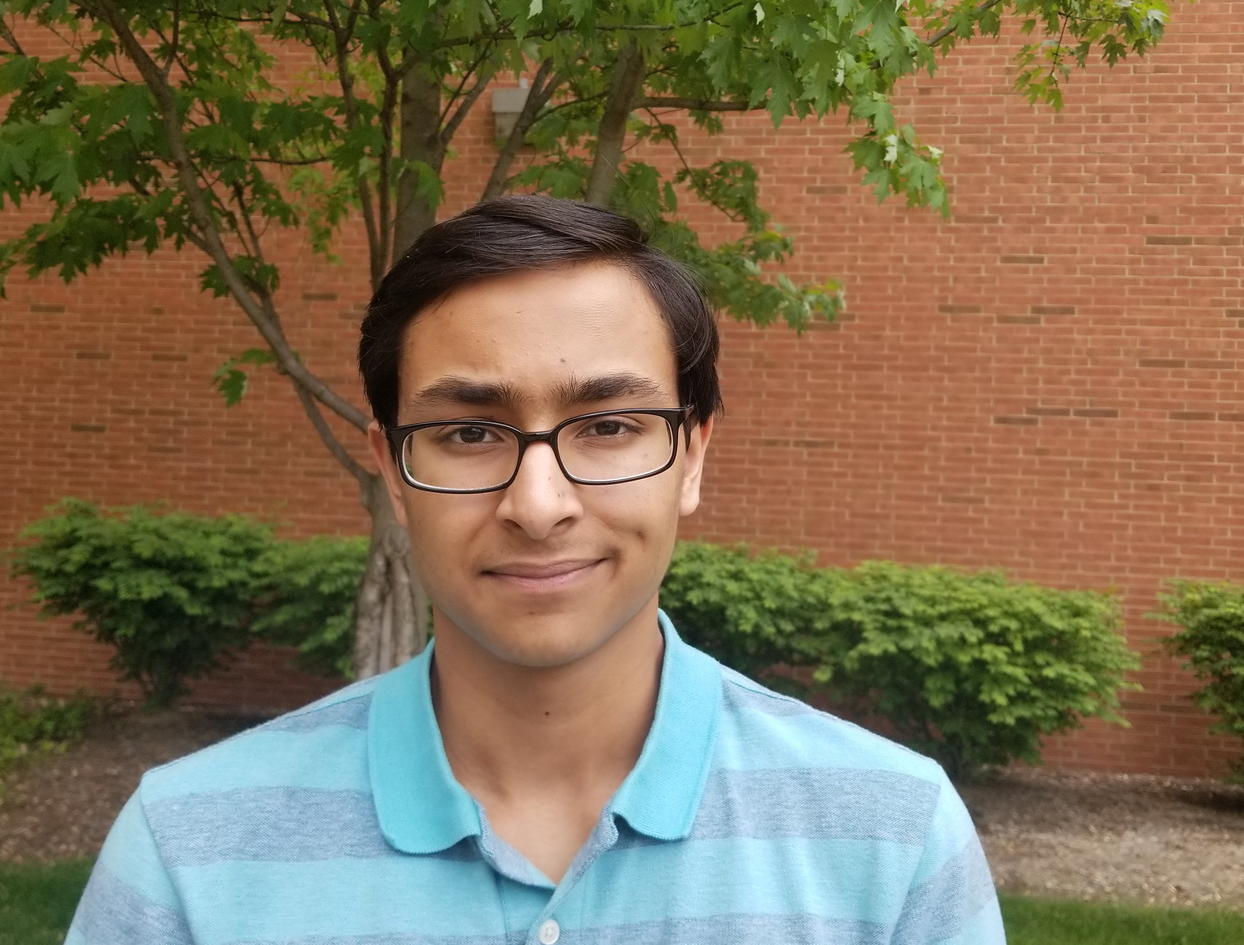
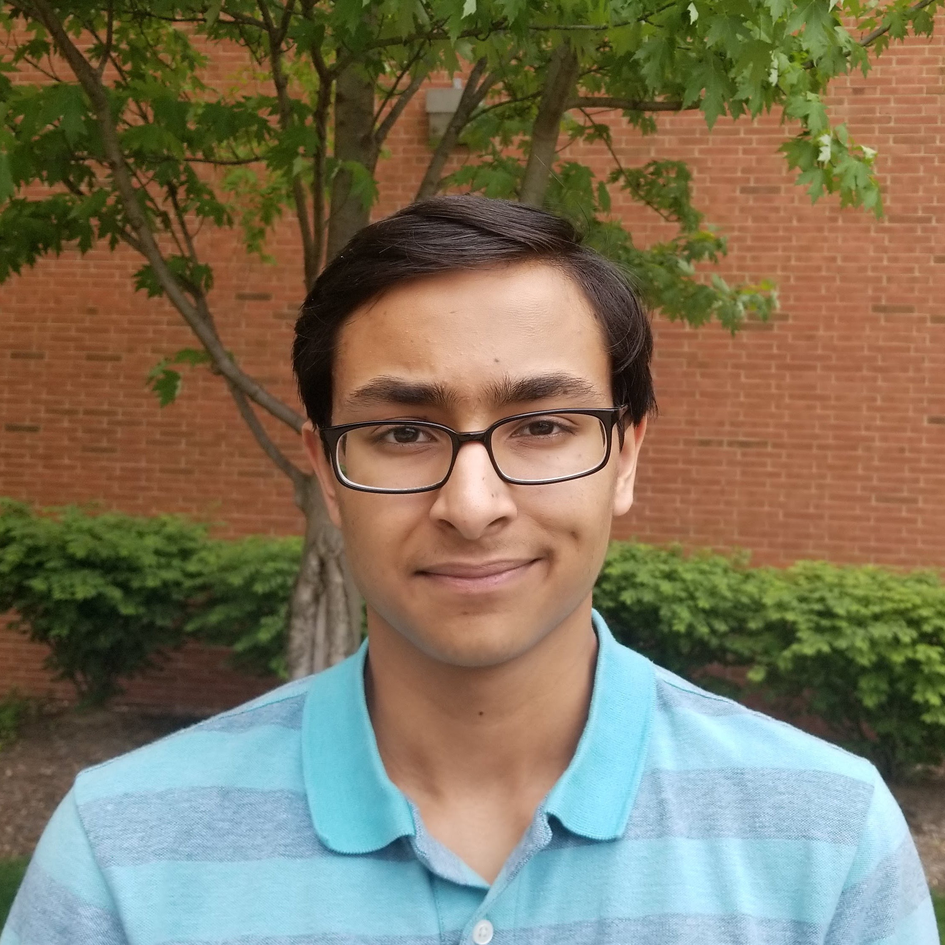
Updated teams page with me and Andrew's pics/bios
Made all team page pictures square (and touched up jared's lighting)

Aligned contact buttons on teams page

Disabled /form page link ("Contact") in header.html

diff --git a/resources/templates/team.html b/resources/templates/team.html
@@ -1,43 +1,68 @@
 {% extends 'header.html' %}
+{% load static %}
 
 {% block content %}
 
-  <div class="container main-body-team" style="padding-top:5%">
+  <div class="container main-body-team" style="padding-top: 5%;">
     <h1 class="display-1 headline">Leadership Team</h1>
 
     <div class="row">
       <div class="column">
         <div class="card">
-          <img src="/static/img/armaan.jpg" alt="Armaan Goel" style="width:100%">
+          <img class="portrait" src="/static/img/armaan.jpg" alt="Armaan Goel">
           <div class="container">
             <h2 style="margin-top:1rem;">Armaan Goel</h2>
             <p class="title">President &amp; Founder</p>
             <p style="padding-bottom:8%">Armaan got the idea for the club when visiting a “civic hackathon” in Indianapolis: a 24 hour event where teams compete to find coding solutions to community problems. Besides Code for Change, he also participates in the HiLite Newspaper, Techounds Robotics Team, Science Olympiad, and Boy Scouts. In his free time he likes to program, bike and go camping.</p>
-            <div class="text-center"><a href="mailto:armaangoel78@gmail.com" class="btn btn-primary btn-xl rounded-pill2 mt-1">Contact</a></div>
+            <div class="contact-button"><a href="mailto:armaangoel78@gmail.com" target="_blank" class="btn btn-primary btn-xl rounded-pill2 mt-1">Contact</a></div>
           </div>
         </div>
       </div>
 
       <div class="column">
         <div class="card">
-          <img src="/static/img/evan.jpg" alt="Evan Kenyon" style="width:100%">
+          <img class="portrait" src="/static/img/evan.jpg" alt="Evan Kenyon">
           <div class="container">
             <h2 style="margin-top:1rem;">Evan Kenyon</h2>
             <p class="title">Vice President</p>
             <p>Evan assisted in starting the club when Armaan told him about the Civic Hackathons. Evan worked at an electronic health records company over this past summer doing coding. He also is vice president of Red Cross Club, troubleshoot lead of Computer Building Club and he is participating in the school robotics team and Model UN. In his free time, he likes to hang out with his friends and family.</p>
-            <div class="text-center"><a href="mailto:evan.m.kenyon@gmail.com" class="btn btn-primary btn-xl rounded-pill2 mt-1">Contact</a></div>
+            <div class="contact-button"><a href="mailto:evan.m.kenyon@gmail.com" target="_blank" class="btn btn-primary btn-xl rounded-pill2 mt-1">Contact</a></div>
           </div>
         </div>
       </div>
 
       <div class="column">
         <div class="card">
-          <img src="/static/img/jared.jpg" alt="Jared Stigter" style="width:100%">
+          <img class="portrait" src="/static/img/jared.jpg" alt="Jared Stigter">
           <div class="container">
             <h2 style="margin-top:1rem;">Jared Stigter</h2>
             <p class="title">Chief Technology Officer</p>
             <p>When Armaan Goel approached Jared with the idea of a club dedicated to serving the community and a possible project to start, Jared jumped on board. He has been programming for several years and has developed a variety of skills. Besides Code For Change, Jared works part time and continues to develop other projects on the side, and enjoys computers, games, and movies.</p>
-            <div class="text-center"><a href="mailto:jaredstigter@gmail.com" class="btn btn-primary btn-xl rounded-pill2 mt-1">Contact</a></div>
+            <div class="contact-button"><a href="mailto:jaredstigter@gmail.com" target="_blank" class="btn btn-primary btn-xl rounded-pill2 mt-1">Contact</a></div>
+          </div>
+        </div>
+      </div>
+
+	    <div class="column">
+        <div class="card">
+          <img class="portrait img-responsive" src="/static/img/joe.jpg" alt="Joseph Paavola">
+          <div class="container">
+            <h2 style="margin-top:1rem;">Joseph Paavola</h2>
+            <p class="title">Lead Developer</p>
+            <p>Joe was offered a position when the club was first founded but declined due to prior commitments. When his schedule cleared up he immediately started to help build Code for Change's first major project: Sapphire. When he isn't debugging a Code For Change project, Joe competes in Science Olympiad, goes backpacking with his family and plays music with his brother.</p>
+            <div class="contact-button"><a href="mailto:joepaavola@gmail.com" target="_blank" class="btn btn-primary btn-xl rounded-pill2 mt-1">Contact</a></div>
+          </div>
+        </div>
+      </div>
+
+       <div class="column">
+        <div class="card">
+          <img class="portrait img-fluid" src="/static/img/andrew.jpg" alt="Andrew Sleugh">
+          <div class="container">
+            <h2 style="margin-top:1rem;">Andrew Sleugh</h2>
+            <p class="title">PR Director</p>
+            <p>Andrew has worked with Code For Change since it first began. When it became clear that better communication and public relations would be vital to the club's development, Andrew stepped up to bat. He has been invaluable in keeping everyone in the loop and has helped keep the club growing. He is also a co-founder of the Carmel Quiz Bowl Chapter, Planetarium club leader and works at Laser flash in his spare time. </p>
+            <div class="contact-button"><a href="mailto:andrewsleugh@gmail.com" target="_blank" class="btn btn-primary btn-xl rounded-pill2 mt-1">Contact</a></div>
           </div>
         </div>
       </div>

diff --git a/static/css/team.css b/static/css/team.css
@@ -1,7 +1,7 @@
 
 .column {
     float: left;
-    width: 33.3%;
+    width: 20%;
     margin-bottom: 16px;
     padding: 0 8px;
 }
@@ -16,7 +16,8 @@
 
 /* Add some shadows to create a card effect */
 .card {
-    margin: 3%
+    margin: 3%;
+    height: 875px;
 }
 
 /* Some left and right padding inside the container */
@@ -26,6 +27,21 @@
 
 .title {
     color: grey;
+}
+
+.portrait {
+    width: 100%;
+    height: auto;
+    border-top-left-radius: 3px;
+    border-top-right-radius: 3px;
+}
+
+.contact-button {
+    position: absolute;
+    bottom: 0;
+    left: 0;
+    right: 0;
+    text-align: center;
 }
 
 .button {
@@ -56,6 +72,11 @@
 
 .service-icon{background-color:#fff;color:#1d809f;height:7rem;width:7rem;display:block;line-height:7.5rem;font-size:2.25rem;box-shadow:0 3px 3px 0 rgba(0,0,0,.1)}
 
+@media (min-width: 992px) {
+    .main-body-team {
+        max-width: 90%;
+    }
+}
 
 @media (min-width: 1200px) {
     .main-body {

diff --git a/resources/templates/header.html b/resources/templates/header.html
@@ -46,7 +46,7 @@
               <a class="nav-link" href="/team">Leadership Team</a>
             </li>
             <li class="nav-item">
-              <a class="nav-link" href="/form">Contact</a>
+              <a class="nav-link disabled" href="#">Contact</a>
             </li>
           </ul>
         </div>
